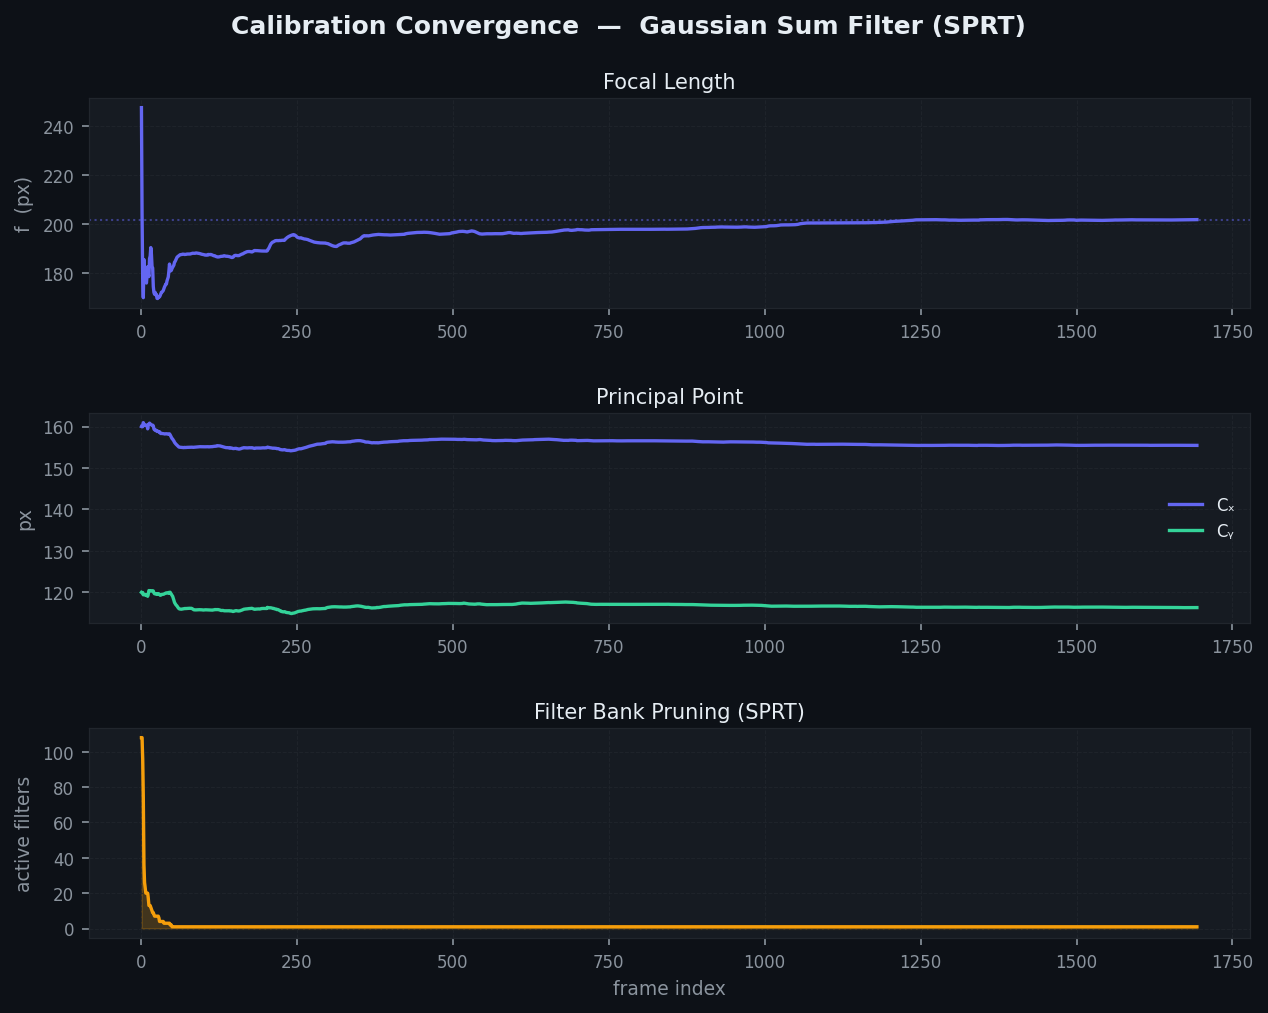
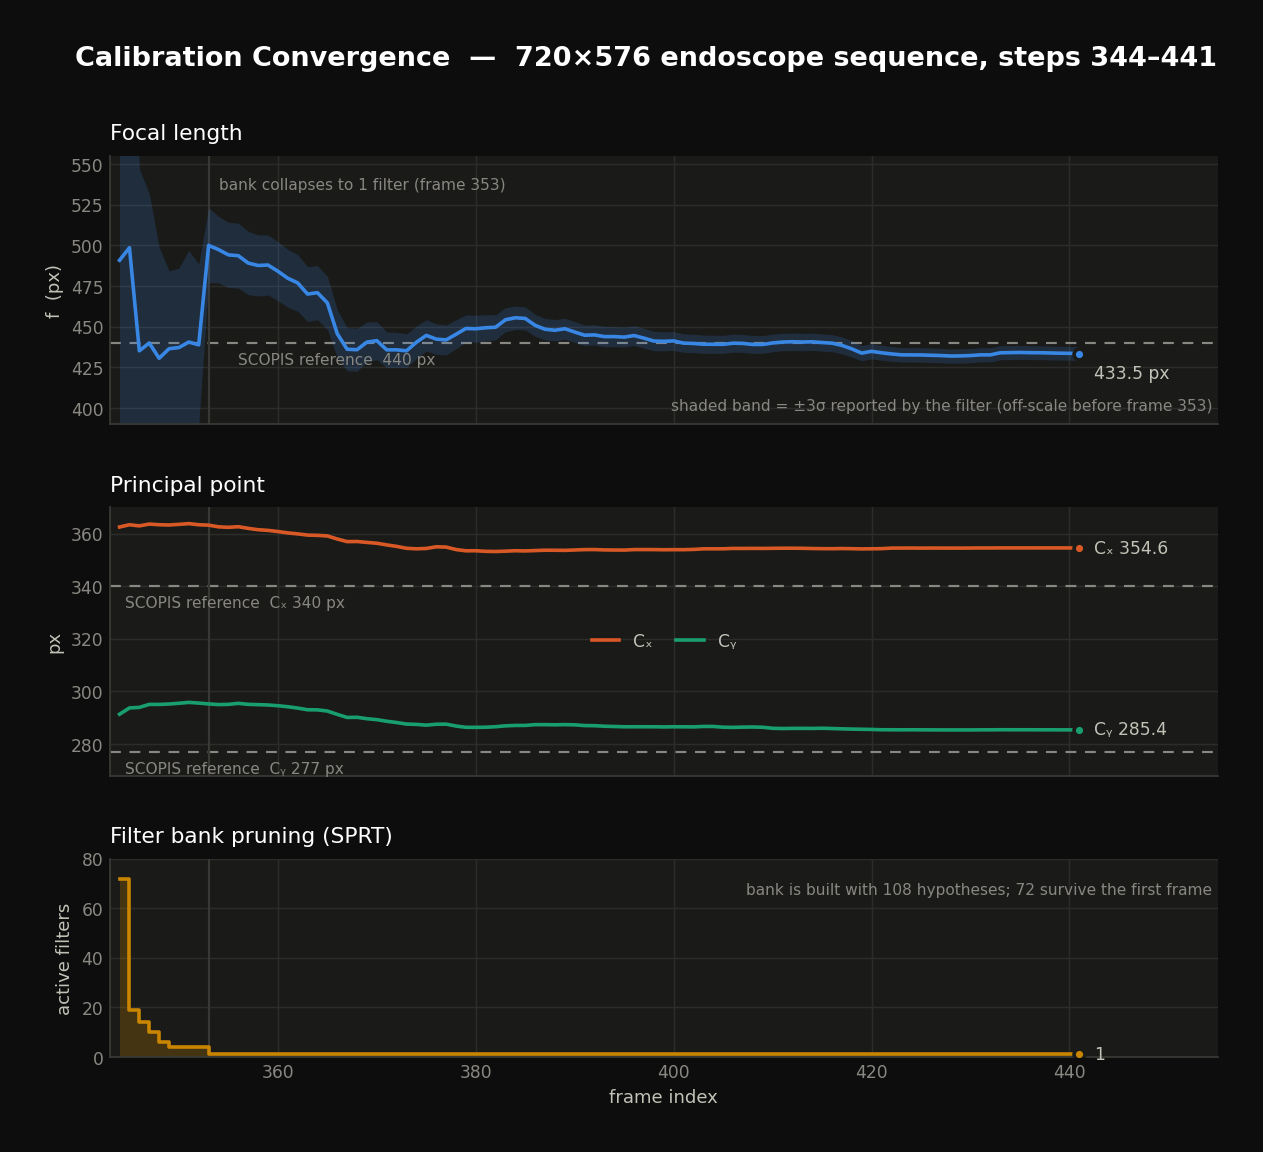
docs: correct README results to the actual 720x576 run
The Results table, sample output block and convergence plot all described the
earlier 320x240 sequence (Calibration_results/cali_results.txt) while being
presented as the 720x576 endoscope result. Replaced them with the numbers from
Mono_Exp_EndoIm/cali_results.txt, the run the tracking frames come from.

- Results table now reports f 433.1 px, (Cx, Cy) = (354.6, 285.4) px,
  k1 0.01911, k2 0.002792, averaged over frames 422-441, alongside the offline
  SCOPIS reference the code carries in hi_cartesian_scopis.
- Sample output block uses real rows; documents all 17 columns (the trailing
  ten are +/-3 sigma bounds) and the 1/mm^2, 1/mm^4 units of k1 and k2.
- "converges within ~200 frames" -> bank reaches a single hypothesis at frame
  353; the bank is built with 108 filters but prunes to 72 in the first frame.
- Dropped the zoom-adjustment claim, which the 98-frame run does not support;
  noted that the reported +/-3 sigma does not bracket the reference and can
  only shrink once the bank collapses, as the intrinsic states carry no
  process noise.
- Regenerated docs/convergence_plot.png from the 720x576 data.
- Architecture tree: output goes to cali_results.txt; Calibration_results/
  holds the archived 320x240 logs.

diff --git a/README.md b/README.md
@@ -71,7 +71,8 @@ Mono_Exp_EndoIm/
 ├── Camera.h / .cpp        # Intrinsic parameter model
 ├── DataAssociator.h / .cpp # Feature matching & data association
 ├── MathUtil.h / .cpp      # Quaternion / Jacobian utilities
-└── Calibration_results/   # Output logs (f, Cx, Cy, k1, k2 per frame)
+├── cali_results.txt       # Output log of the current run (720×576 sequence)
+└── Calibration_results/   # Archived logs from an earlier 320×240 sequence
 ```
 
 ---
@@ -125,14 +126,24 @@ int lastIm  = 900;   // last frame
 4. Run the binary — calibration estimates are appended to `cali_results.txt`:
 
 ```
-frame   f (px)    Cx (px)   Cy (px)   k1       k2       filters_alive
-344     247.546   160.000   120.000   0.04059  0.00878   108
-345     203.928   159.937   119.886   0.04152  0.00907   108
+frame   f (px)    Cx (px)   Cy (px)   k1        k2        filters_alive
+344     490.873   362.551   291.323   0.041420  0.009722   72
+345     498.592   363.407   293.725   0.021161  0.003104   19
 ...
-400     172.683   158.286   119.550   0.05592  0.01459     4
+353     500.035   363.253   295.252   0.020013  0.003002    1
+...
+441     433.478   354.582   285.387   0.019108  0.002792    1
 ```
 
-The filter bank starts with 108 parallel hypotheses and prunes down as the SPRT accumulates evidence.
+Each row has 17 columns: the 7 shown above, followed by the ±3σ bounds for
+`f`, `Cx`, `Cy`, `k1`, `k2` (two columns each). Note that `k1` and `k2` are in
+`1/mm²` and `1/mm⁴` — the radial distortion is applied to a *metric* radius
+obtained via the pixel pitch `dx` from `camdata/cam.txt`, so these are not the
+dimensionless coefficients used by OpenCV.
+
+The filter bank is built with 108 parallel hypotheses (18 focal lengths × 2 `k1`
+× 3 `k2`, see `FilterBank::initialize_filterbank`). Pruning happens inside the
+first processed frame, so the first logged row already shows 72 survivors.
 
 ---
 
@@ -173,7 +184,11 @@ As the filter bank accumulates observations, ellipses shrink — reflecting redu
 
 ## Convergence Plot
 
-Focal length, principal point, and active filter count over the sequence. The filter bank starts with 108 hypotheses and is pruned by the SPRT until a single estimate remains.
+Focal length, principal point, and active filter count over the 720×576
+sequence, plotted from `Mono_Exp_EndoIm/cali_results.txt`. Dashed lines mark the
+offline SCOPIS calibration; the shaded band on `f` is the ±3σ the filter reports.
+The bank is built with 108 hypotheses, drops to 72 within the first frame, and
+reaches a single survivor at frame 353.
 
 ![Convergence plot](docs/convergence_plot.png)
 
@@ -181,16 +196,33 @@ Focal length, principal point, and active filter count over the sequence. The fi
 
 ## Results
 
-Tested on a 720×576 SCOPIS endoscope sequence. The GSF converges within ~200 frames:
+Tested on a 720×576 SCOPIS endoscope sequence, steps 344–441 (98 frames).
+The bank is pruned to a single surviving hypothesis at frame 353 — nine frames
+in — after which the run is effectively a single EKF refining that hypothesis.
 
-| Parameter | Converged estimate |
-|-----------|-------------------|
-| Focal length `f` | ~172–186 px |
-| Principal point `(Cx, Cy)` | ~(158, 119) px |
-| Radial distortion `k1` | ~0.054 |
-| Radial distortion `k2` | ~0.015 |
+Values below are the mean over the last 20 frames (422–441), compared against
+the offline SCOPIS calibration that the code carries as its reference baseline
+(`Kalman.cpp`, `hi_cartesian_scopis`):
 
-The principal point converges reliably to stable values; residual focal-length variation is consistent with active zoom adjustment on the live endoscope.
+| Parameter | GSF estimate | SCOPIS reference | Difference |
+|-----------|--------------|------------------|------------|
+| Focal length `f` | 433.1 px | 440 px | −1.6 % |
+| Principal point `Cx` | 354.6 px | 340 px | +14.6 px |
+| Principal point `Cy` | 285.4 px | 277 px | +8.4 px |
+| Radial distortion `k1` | 0.01911 1/mm² | 0.0101 1/mm² | +89 % |
+| Radial distortion `k2` | 0.002792 1/mm⁴ | 0.00146 1/mm⁴ | +91 % |
+
+Focal length lands within 2 % of the reference. The principal point settles to a
+stable value 8–15 px away from it, and the two distortion coefficients come out
+roughly twice the reference — at the edge of the endoscope's circular field of
+view (r ≈ 350 px) that is a radial magnification of 1.95 against the reference's
+1.50.
+
+The ±3σ interval reported in `cali_results.txt` narrows to ±4.3 px on `f` and
+±0.5 px on `Cx` by frame 441, which does not bracket the reference for any of
+the five parameters. The intrinsic states carry no process noise, so once the
+bank has collapsed their covariance can only shrink; the reported interval
+should be read as filter self-consistency, not as accuracy.
 
 ---
 
